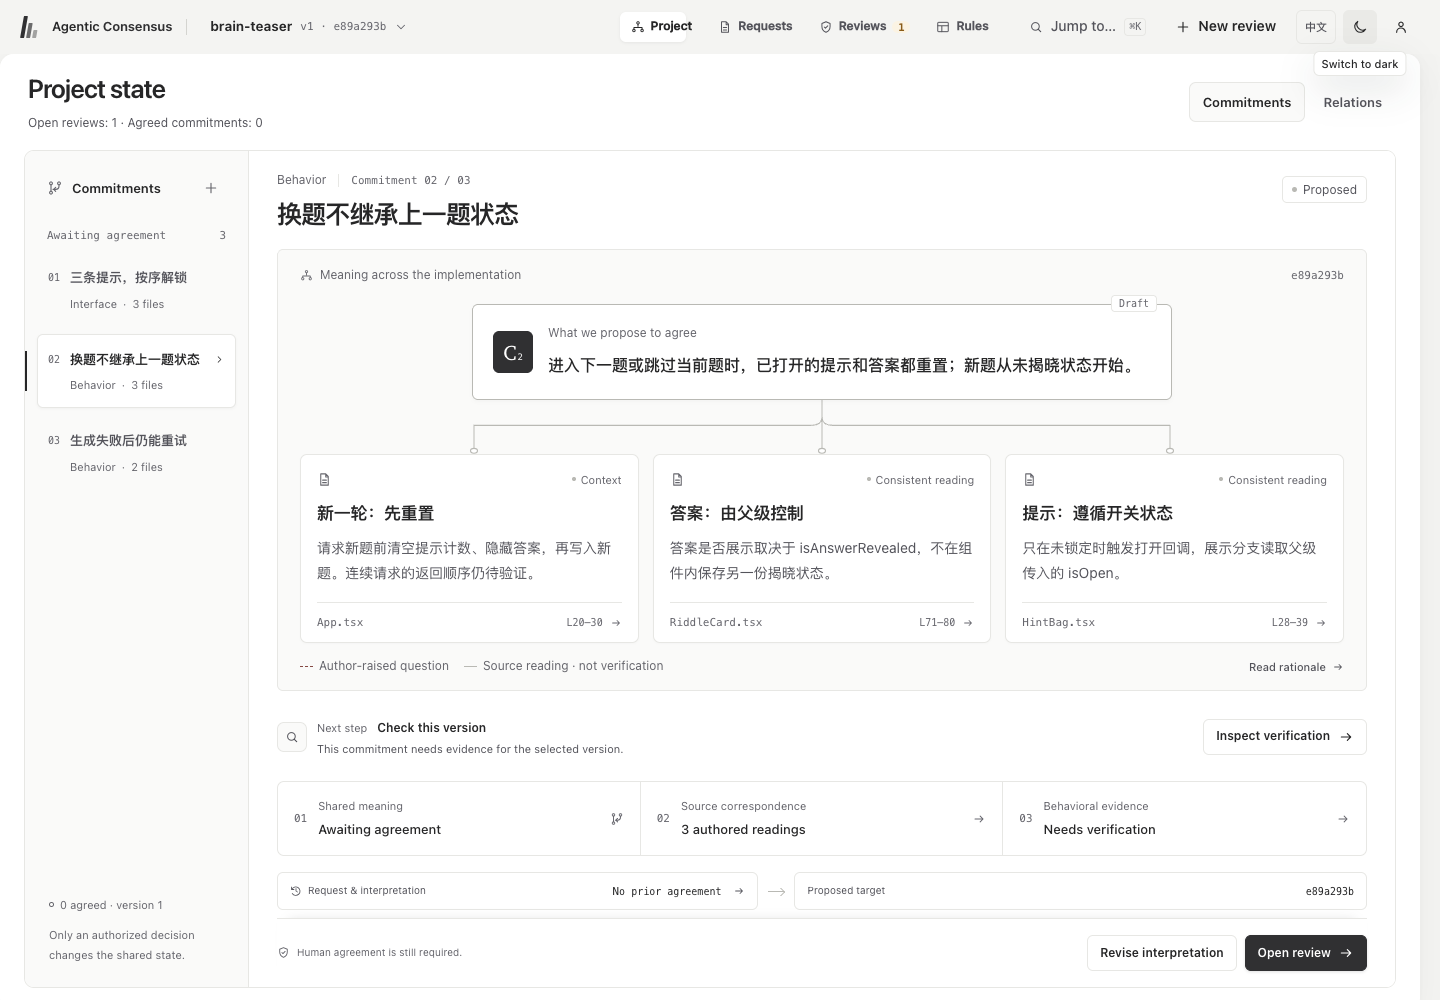
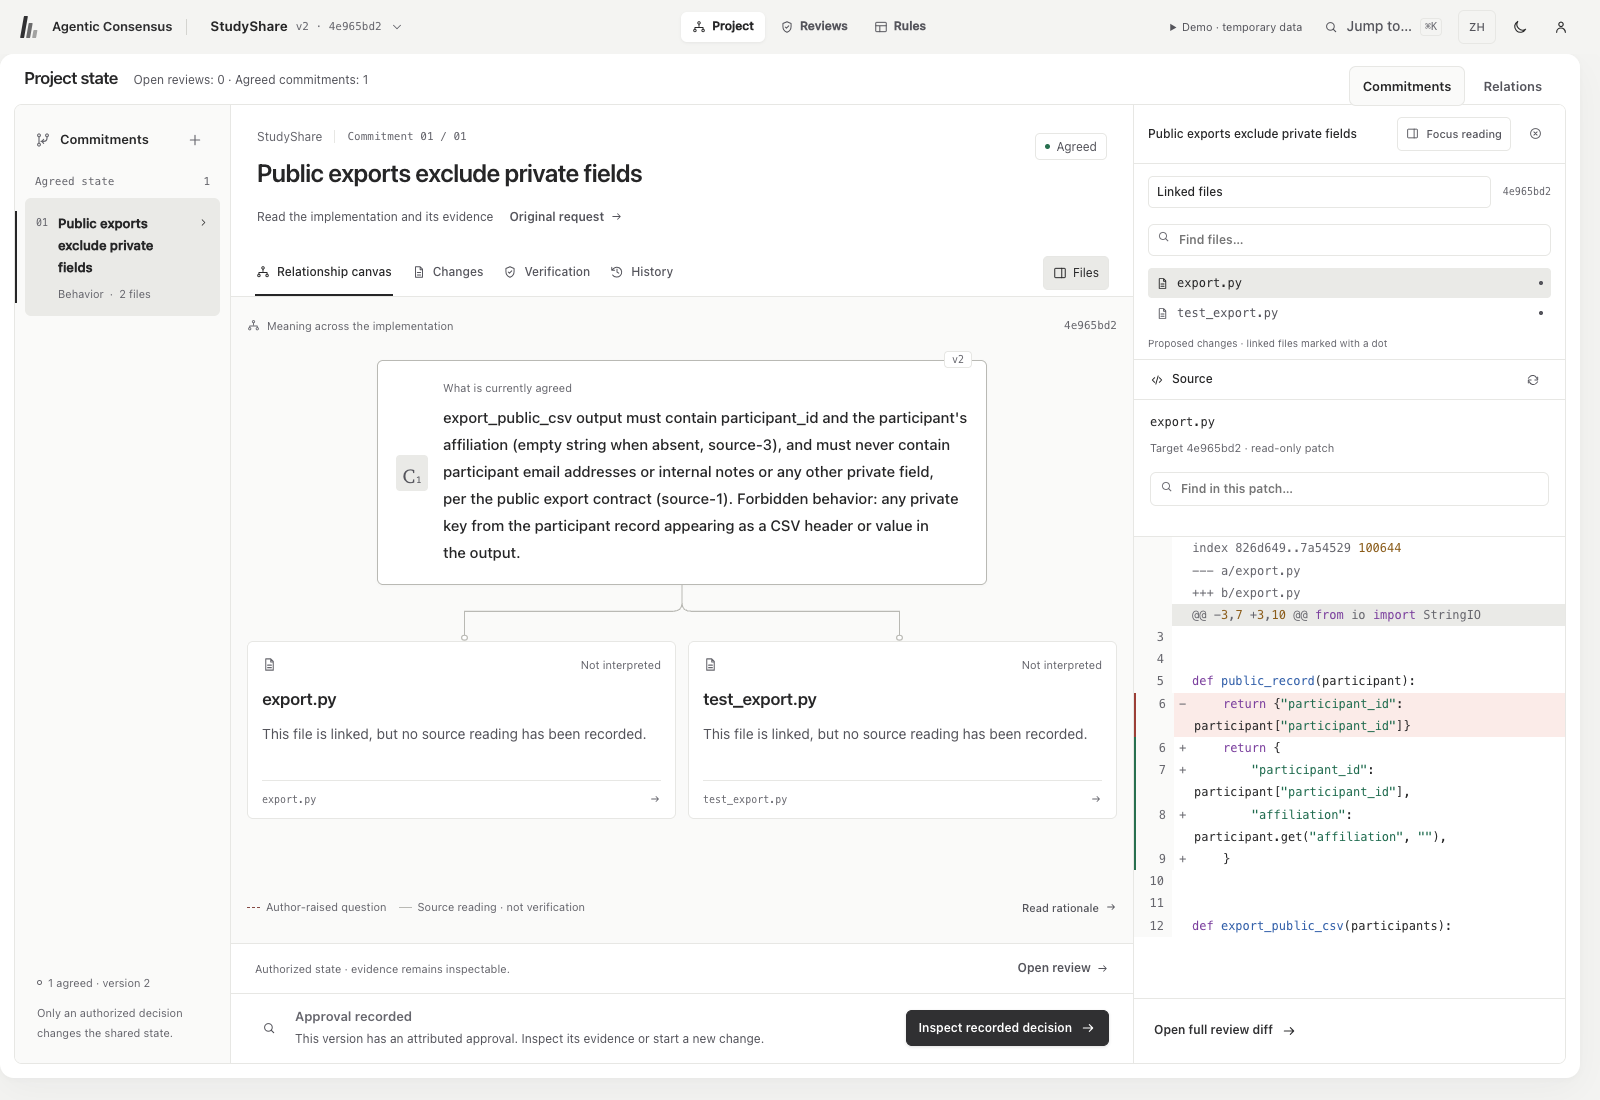
Replace mixed-language workspace capture with English demo (#4)

diff --git a/index.html b/index.html
@@ -717,22 +717,22 @@
             >
               <a
                 class="screenshot-link"
-                href="./assets/workspace.png"
+                href="./assets/workspace.png?v=20261013-en"
                 target="_blank"
                 rel="noopener"
                 aria-label="Open full-size shared meaning workspace screenshot"
                 ><img
-                  src="./assets/workspace.png"
-                  width="1440"
-                  height="1000"
-                  alt="Consensus Control connects a proposed question-reset commitment to three version-pinned source readings. The interface is English; the project's authored commitments are in Chinese."
+                  src="./assets/workspace.png?v=20261013-en"
+                  width="1600"
+                  height="1100"
+                  alt="English-only StudyShare demo: an agreed public-export commitment beside version-pinned source code. Two linked files are marked Not interpreted; the temporary-demo notice remains visible."
                   loading="lazy"
                 /><span class="image-expand">Enlarge image ⤢</span></a
               >
               <p class="screen-caption">
-                <b>Meaning, linked to source.</b> Read a commitment beside the
-                exact code version. Source readings are not behavioral
-                verification.
+                <b>An agreed commitment, beside the code.</b> An English-only
+                synthetic demo. Linked files are marked “Not interpreted” until
+                a source reading is recorded.
               </p>
             </div>
             <div

diff --git a/docs/showcase.md b/docs/showcase.md
@@ -15,7 +15,7 @@ Warm paper (#f7f7f2), forest green (#173f35), and a restrained pale green accent
 - Current research summary: the newer paper's framework, without human-study findings. The website explicitly notes that an arXiv update is forthcoming. Current-project affiliations follow the newer manuscript; the public preprint retains its historical affiliations.
 - Evaluation: the proposed B0/B1/B2 comparison, clearly future work. Human-study results are omitted at the owner's request.
 - Walkthrough: a simplified capability-migration scenario, grounded in the implementation's synthetic demo and the manuscript's authority-drift trace. The code excerpt is labeled illustrative. No demo button changes a repository or admits a decision.
-- Workspace: `agentic-consensus/docs/images/refinement-workspace-en.png`. English interface with project-authored Chinese commitments is disclosed in the image description.
+- Workspace (updated 2026-10-13): `agentic-consensus/docs/qa/vercel-paper-2026-10-13/06-project-canvas.png`. Actual English-only StudyShare synthetic-demo capture: one agreed commitment, two linked files marked “Not interpreted,” and version-pinned source code. The temporary-demo notice is preserved. The recorded synthetic approval is not a human-study finding or a real participant-data release.
 - Change map / decision: recorded reviewer captures from the manuscript's `figures/` directory, labeled as actual captures. The change map's two recorded results are not described as satisfying the three evidence obligations.
 - Implementation scope: the code repository README and current source. GitHub import remains read-only, AI is advisory, Python imports are the supported automated analysis, and realization is bounded to a single import substitution.
 
